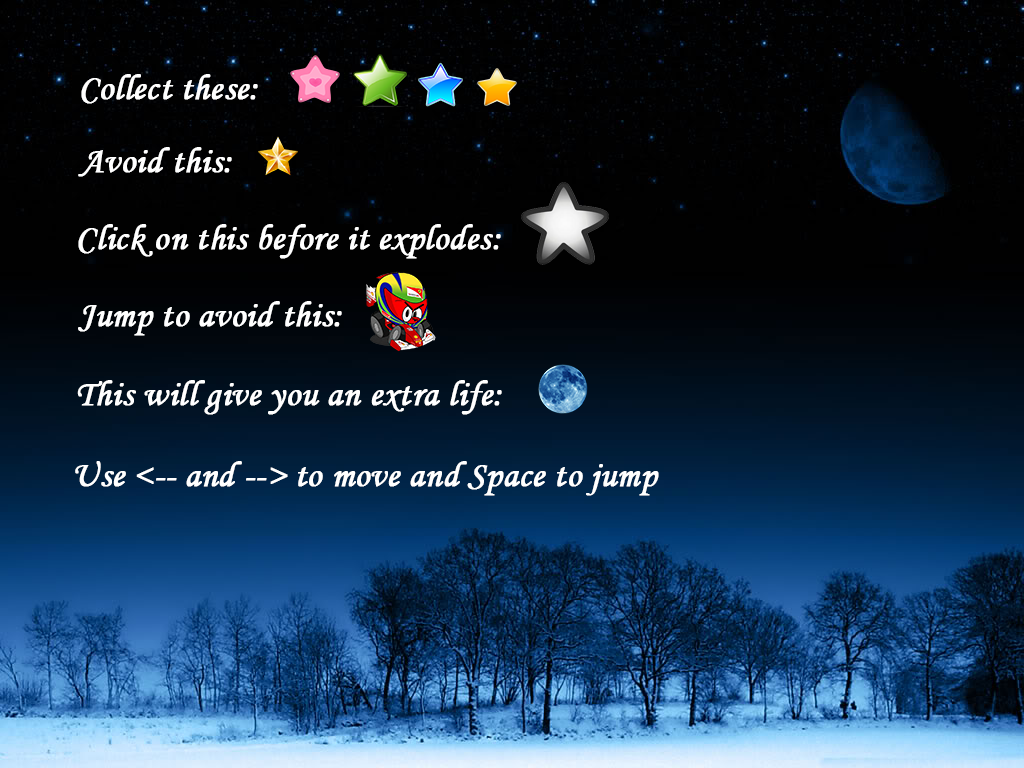
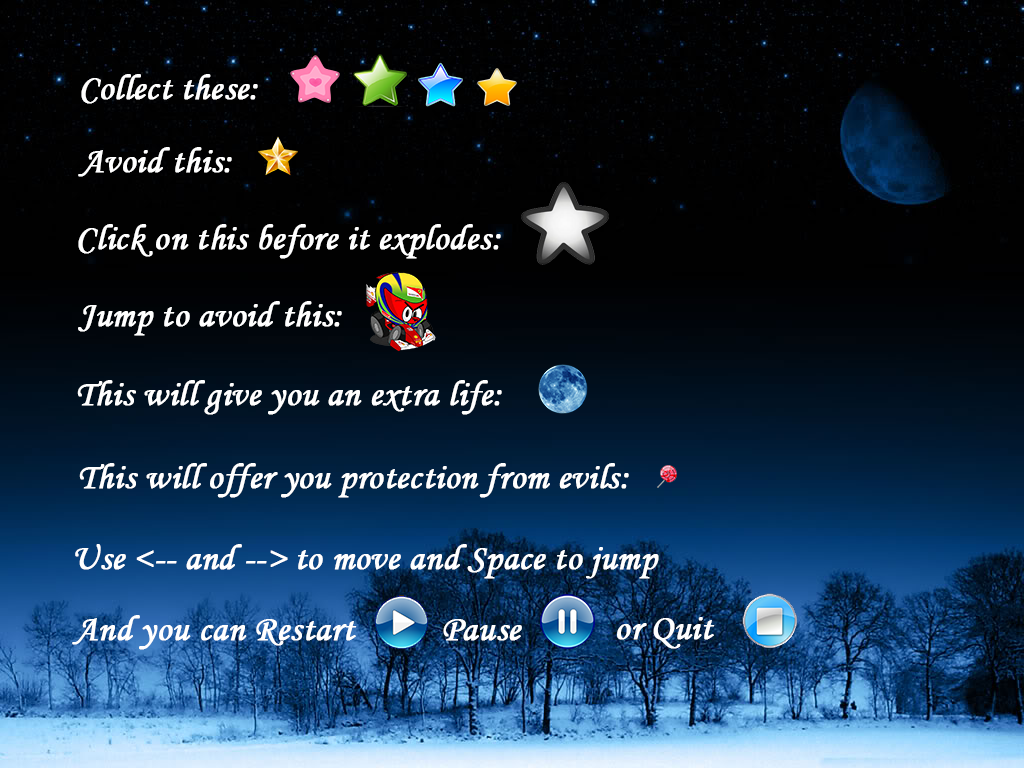
close #24. Restart Button added

Changed region(s): [[0.0625, 0.7188, 0.7812, 0.8438], [0.0625, 0.5938, 0.6562, 0.6562]]

diff --git a/mainwindow.cpp b/mainwindow.cpp
@@ -13,18 +13,7 @@ MainWindow::MainWindow(){
   view = new QGraphicsView(scene);
   setCentralWidget(view);
   view->setFixedSize(1030, 770);
-  //setWindowTitle("myStar");
-  setWindowFlags(Qt::WindowTitleHint);
   setWindowTitle("Star by Yunying Tu");
-  
-  //MenuBar
-  mb = new QMenuBar();
-  fileMenu = new QMenu( this);
-  mb->addMenu(fileMenu);
-  QAction *exitAction = new QAction("Exit", this);
-  fileMenu->addAction(exitAction);
-  connect(exitAction, SIGNAL(triggered()), this, SLOT(handleQuit()));
-  setMenuBar(mb);
   
   //SetBackground
   QPixmap night("./night.jpg");
@@ -226,6 +215,18 @@ void MainWindow::handleStart(){
   quit->setPalette(quitPalette);
   gamescene->addWidget(quit);
   connect(quit, SIGNAL(clicked()), this, SLOT(handleQuit()));
+  
+  //Restart Button
+  QPixmap restartImage("./Restart.png");
+  restart = new QPushButton();
+  restart->setGeometry(760, 20, 55, 55);
+  QPalette restartPalette;
+  restartPalette.setBrush(restart->backgroundRole(), QBrush(restartImage));
+  restart->setFlat(true);
+  restart->setAutoFillBackground(true);
+  restart->setPalette(restartPalette);
+  gamescene->addWidget(restart);
+  connect(restart, SIGNAL(clicked()), this, SLOT(handleRestart()));
   
   //Timers
   timers = new QTimer();
@@ -466,7 +467,6 @@ void MainWindow::handleStarTimer(){
   
 
   if (myStarTime == 20 + 10*level){
-    //setFocus();
     int sx = rand() % 960+10;
     int svy = rand() % 3+1;
     int tm = rand() % (80 + 20*level);
@@ -568,7 +568,6 @@ void MainWindow::checkLife(){
 void MainWindow::checkScore(){
   if (scoreNum > atoi(scoreN->text().toStdString().c_str())){
     if (scoreNum % 1000 == 0 && candy_is_here == false && candyStatus == false){
-      cout << "Score detected" << endl;
       candy_timer = new QTimer();
       candy_timer->start(30);
       connect(candy_timer, SIGNAL(timeout()), this, SLOT(handleCandy()));
@@ -632,7 +631,7 @@ void MainWindow::handleIns(){
   scene->addItem(InsImage);
   back = new QPushButton("Back");
   back->setFont(QFont("Helvatica", 23, 40));
-  back->setGeometry(800, 550, 120, 60);
+  back->setGeometry(800, 50, 120, 60);
   scene->addWidget(back);
   connect(back, SIGNAL(clicked()), this, SLOT(handleBack()));
 }
@@ -680,4 +679,12 @@ void MainWindow::handleGirlCandy(){
     delete candyS;
     myGirl->setPixmap(*girlImage); 
 }
+
+void MainWindow::handleRestart(){
+  handlePause();
+  stars.clear();
+  view->setScene(scene);
+}
+
+
   

diff --git a/mainwindow.h b/mainwindow.h
@@ -32,6 +32,7 @@
 #include "star.h"
 #include "candy.h"
 #include <QMenu>
+#include <QVBoxLayout>
 
 using namespace std;
 
@@ -93,11 +94,14 @@ class MainWindow: public QMainWindow{
     QPushButton *Pause;
     QPushButton *quit;
     QPushButton *quit1;
+    QPushButton *restart;
     QPushButton *Instructions;
     QPushButton *back;
     QPixmap *Instruct;
     QGraphicsPixmapItem *InsImage;
     Candy *myCandy;
+    QAction *exitAction;
+    QAction *startAction;
     
     QTimer *timers;
     
@@ -150,6 +154,7 @@ class MainWindow: public QMainWindow{
     void handleCandy();
     void handleGirlCandy();
     void handleTimers();
+    void handleRestart();
     void keyPressEvent(QKeyEvent *event);
 };
 
